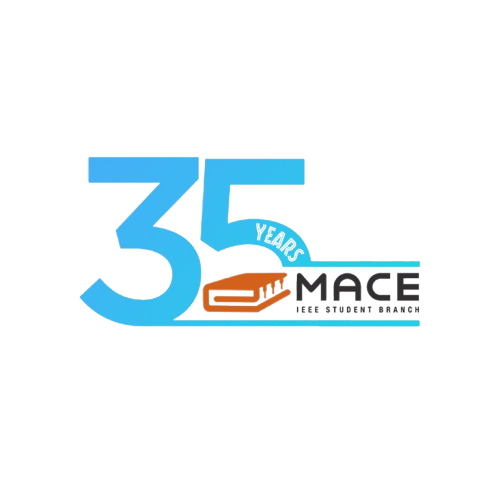
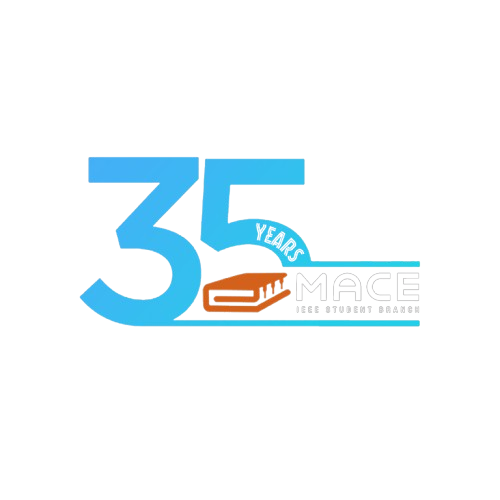
logochange

Changed region(s): [[0.57, 0.54, 0.84, 0.63]]

diff --git a/src/Pages/Navbar/Navbar.jsx b/src/Pages/Navbar/Navbar.jsx
@@ -1,16 +1,26 @@
-import React, { useState } from "react";
+import React, { useState,useEffect } from "react";
 import "./navbar.css";
 import { FaBars } from "react-icons/fa";
 
 export default function Navbar() {
   const [active, setActive] = useState(false);
+  const [logoIndex, setLogoIndex] = useState(0);
 
+  const logos = ["images/mace35_1.png", "images/mace35_2.png"]; 
+
+  useEffect(() => {
+    const interval = setInterval(() => {
+      setLogoIndex((prevIndex) => (prevIndex === 0 ? 1 : 0)); 
+    }, 2000);
+
+    return () => clearInterval(interval);
+  }, []);
   return (
     <>
       <nav className="navbar">
         <div className="navBar">
-          <div className="logo">
-            <img src="images/mace_his.png" alt="Mace Logo" />
+        <div className="logo">
+            <img src={logos[logoIndex]} alt="Mace Logo" />
           </div>
           <FaBars
             className="bars"

diff --git a/src/Pages/Navbar/navbar.css b/src/Pages/Navbar/navbar.css
@@ -22,8 +22,9 @@
 }
 .navbar .logo{
     height: 100%;
-    /* width: 250px; */
-    width: 90px;
+    width: 200px;
+   /*  width: 90px; */
+   padding-top: 10px;
     display: flex;
     align-items: center;
     justify-content: left;
@@ -91,7 +92,7 @@
         transition: all 0.3s linear;
     }
     .navbar .logo{
-        width: 80px;
+        width: 160px;
     }
     .nav-bar-active{
         top: 10dvh;
